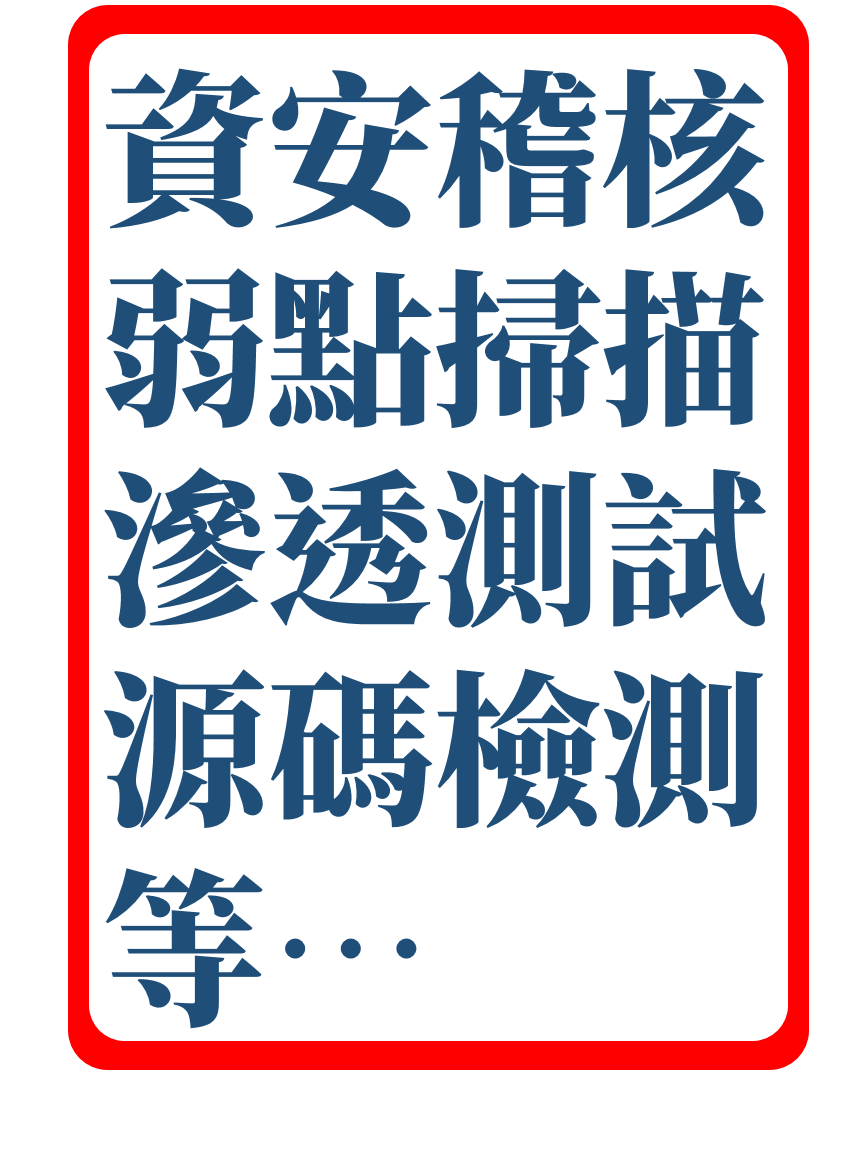
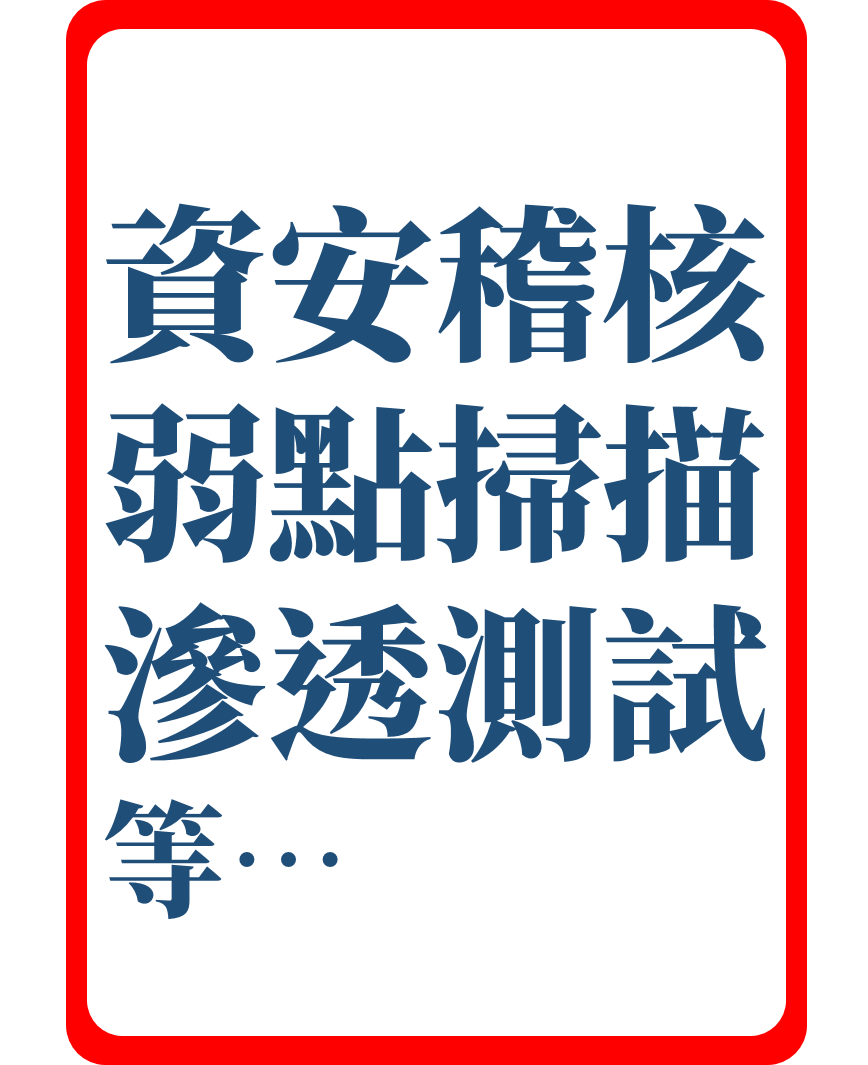
更新圖片css

diff --git a/css/rotating-card.css b/css/rotating-card.css
@@ -7,7 +7,8 @@ body {
 
 img{
 	
-	
+	width:100%;
+	height:100%;
 	
 	
 }
